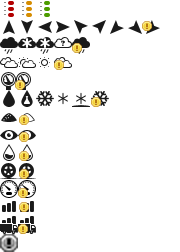
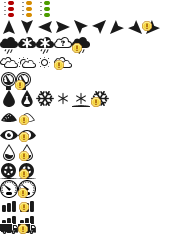
new sensors styles were added

Changed region(s): [[0.0, 0.9167, 0.1111, 1.0]]

diff --git a/rosavto/static/css/sensors/sensors.css b/rosavto/static/css/sensors/sensors.css
@@ -317,8 +317,16 @@ div.sensorsPopup td.TemperatureRoad div.icon-sensor {
     background-position: -18px 0;
 }
 
+div.sensorsPopup td.TemperatureUnderRoad div.icon-sensor {
+    background-position: -36px 0;
+}
+
 div.sensorsPopup td.WindDirection div.icon-sensor.WindDirectionUndefined {
-    background-position: -18px -144px;
+    background-position: -142px -18px;
+}
+
+div.sensorsPopup td.PrecipitationCode div.icon-sensor.PRECIPITATION_UNDEFINED {
+    background-position: -72px -36px;
 }
 
 /* Traffic sensors*/
